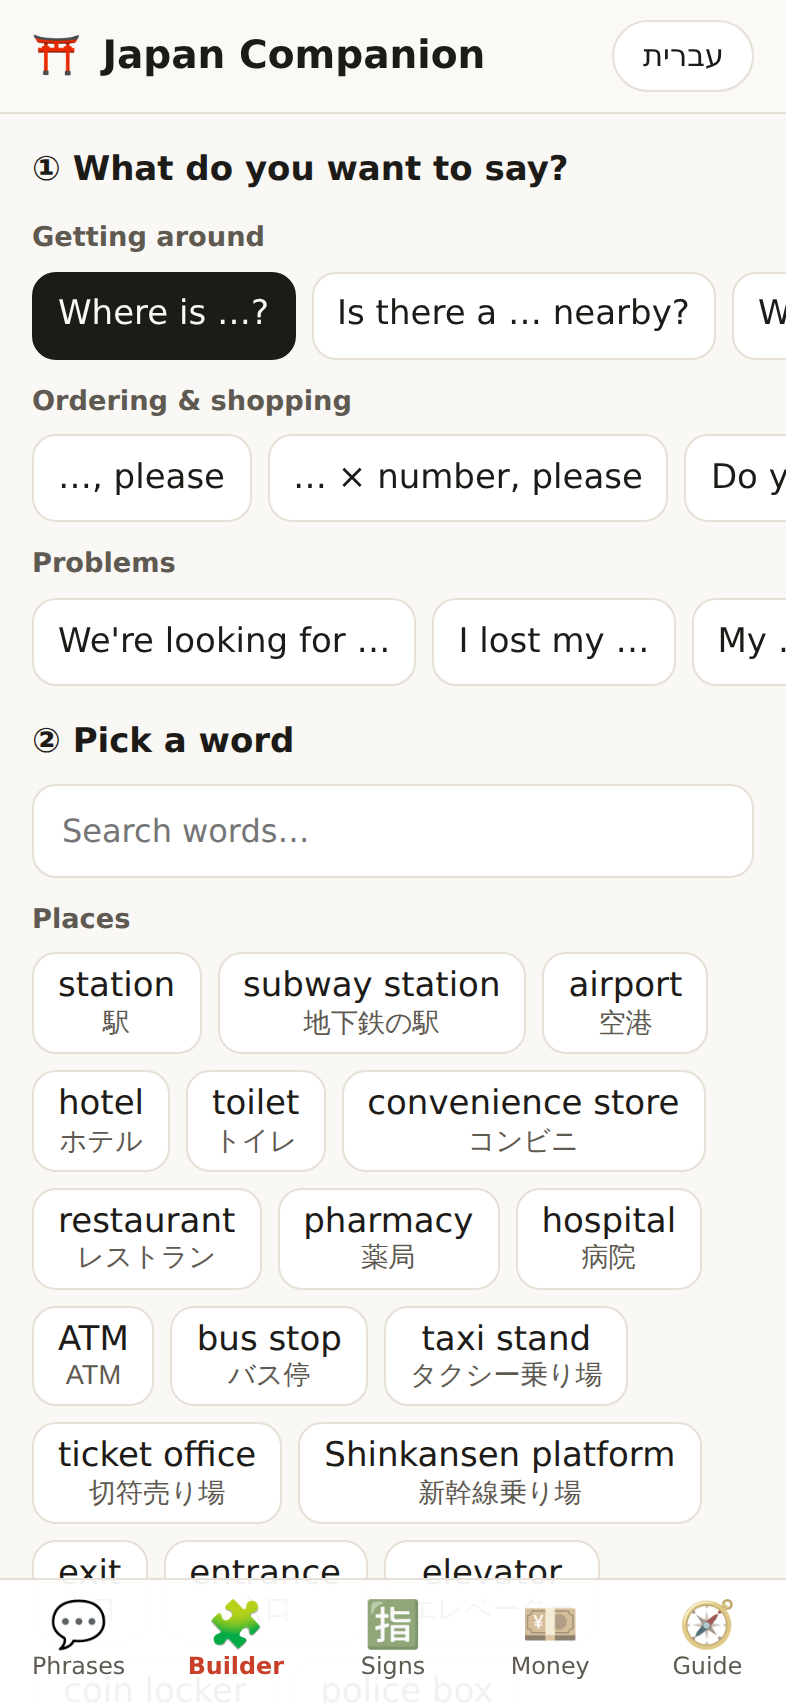
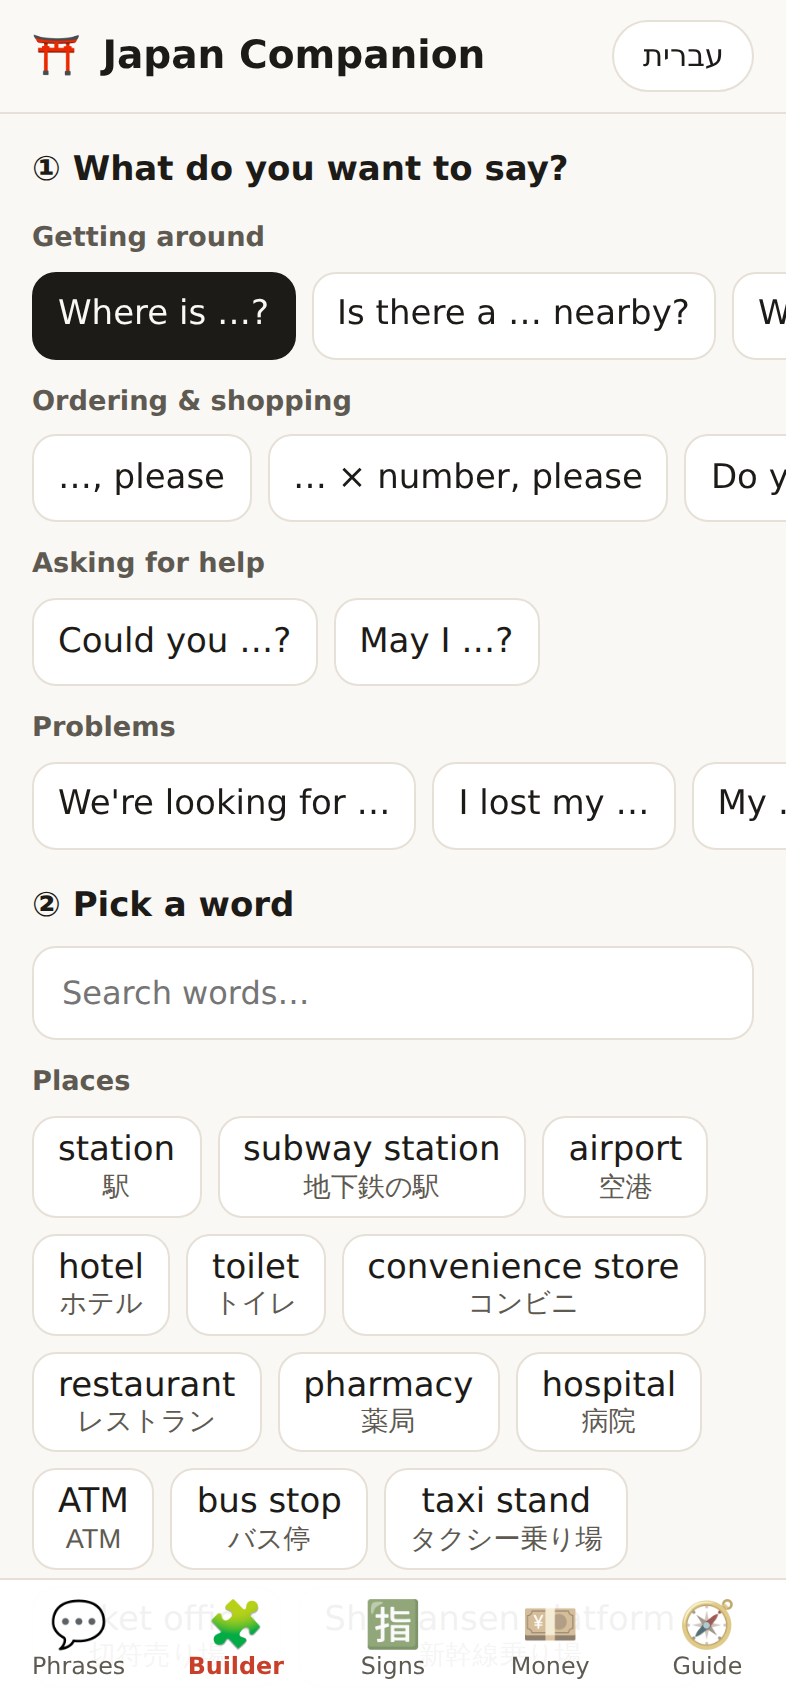
Phrase builder: requests, renting, pointing and broken things
Adds 13 frames and 69 words, driven by real travel needs: "How much is
that?", "Can I have …?", "Could you show me …?", "How much to rent …?",
"Is … included?", "When is the next …?", "Do you know …?", "… is broken",
"… doesn't work", plus two verb frames. Te-form verbs slot into
〜てもらえますか ("Could you heat it up / help us / fix it?") and
〜てもいいですか ("May I take a photo / pay by card?").

A narrower "works" type keeps nonsense like 現金が使えません out. Tests
pin the new sentences, and the smoke test drives "Could you heat it up?".

Claude-Session: https://claude.ai/code/session_018bchT5sCpiiUFh9kUhpGf5

diff --git a/japan-companion/app/src/content/patterns.ts b/japan-companion/app/src/content/patterns.ts
@@ -12,9 +12,17 @@ export type WordType =
   | 'body'
   | 'belonging'
   | 'usable'
+  | 'sight'
+  | 'fixture'
+  | 'rentable'
+  | 'amenity'
+  | 'vehicle'
+  | 'request'
+  | 'may-i'
+  | 'works'
   | 'custom'
 
-export type PatternGroup = 'around' | 'order' | 'problems'
+export type PatternGroup = 'around' | 'order' | 'requests' | 'problems'
 
 /**
  * A sentence frame. `{N}` is the noun; `{C}` the count (only with `count: true`).
@@ -100,6 +108,25 @@ export const PATTERNS: Pattern[] = [
   },
 
   {
+    id: 'next', group: 'around', accepts: ['vehicle'],
+    label: { he: 'מתי ה… הבא?', en: 'When is the next …?' },
+    ja: '次の{N}は何時ですか', kana: 'つぎの{N}はなんじですか', romaji: 'tsugi no {N} wa nanji desu ka', he_pron: 'צוגי נו {N} וה נאנג\'י דס קה',
+    he: 'מתי היציאה הבאה של {he_def}?', en: 'What time is the next {en}?',
+  },
+  {
+    id: 'leaves-from', group: 'around', accepts: ['vehicle'],
+    label: { he: 'מאיפה עולים על …?', en: 'Where does … leave from?' },
+    ja: '{N}はどこから出ますか', kana: '{N}はどこからでますか', romaji: '{N} wa doko kara demasu ka', he_pron: '{N} וה דוקו קארה דמאס קה',
+    he: 'מאיפה עולים על {he_def}?', en: 'Where does {the} leave from?',
+  },
+  {
+    id: 'know', group: 'around', accepts: ['place', 'sight', 'pointer-place', 'this', 'custom'],
+    label: { he: 'אתם מכירים את …?', en: 'Do you know …?' },
+    ja: '{N}を知っていますか', kana: '{N}をしっていますか', romaji: '{N} o shitte imasu ka', he_pron: '{N} או שיטה אימאס קה',
+    he: 'אתם מכירים את {he_def}?', en: 'Do you know {the}?',
+  },
+
+  {
     id: 'please', group: 'order', accepts: GOODS,
     label: { he: '…, בבקשה', en: '…, please' },
     ja: '{N}をお願いします', kana: '{N}をおねがいします', romaji: '{N} o onegaishimasu', he_pron: '{N} או אונגאי שימאס',
@@ -149,6 +176,56 @@ export const PATTERNS: Pattern[] = [
   },
 
   {
+    id: 'can-i-have', group: 'order', accepts: [...GOODS, 'amenity'],
+    label: { he: 'אפשר לקבל …?', en: 'Can I have …?' },
+    ja: '{N}をもらえますか', kana: '{N}をもらえますか', romaji: '{N} o moraemasu ka', he_pron: '{N} או מוראאמאס קה',
+    he: 'אפשר לקבל {he}?', en: 'Can I have {a}?',
+  },
+  {
+    id: 'show-me', group: 'order', accepts: ['thing', 'this'],
+    label: { he: 'אפשר לראות את …?', en: 'Can you show me …?' },
+    ja: '{N}を見せてもらえますか', kana: '{N}をみせてもらえますか', romaji: '{N} o misete moraemasu ka', he_pron: '{N} או מיסטה מוראאמאס קה',
+    he: 'תוכלו להראות לי את {he_def}?', en: 'Could you show me {the}?',
+  },
+  {
+    id: 'recommend', group: 'order', accepts: ['food', 'drink', 'sight'],
+    label: { he: 'המלצה על …?', en: 'Any … you recommend?' },
+    ja: 'おすすめの{N}はありますか', kana: 'おすすめの{N}はありますか', romaji: 'osusume no {N} wa arimasu ka', he_pron: 'אוסוסומה נו {N} וה ארימאס קה',
+    he: 'יש לכם המלצה על {he}?', en: 'Is there {a} you recommend?',
+  },
+  {
+    id: 'rent-price', group: 'order', accepts: ['rentable'],
+    label: { he: 'כמה עולה לשכור …?', en: 'How much to rent …?' },
+    ja: '{N}のレンタルはいくらですか', kana: '{N}のレンタルはいくらですか', romaji: '{N} no rentaru wa ikura desu ka', he_pron: '{N} נו רנטארו וה איקורה דס קה',
+    he: 'כמה עולה לשכור {he}?', en: 'How much is it to rent {a}?',
+  },
+  {
+    id: 'rent-where', group: 'order', accepts: ['rentable'],
+    label: { he: 'איפה אפשר לשכור …?', en: 'Where can I rent …?' },
+    ja: '{N}はどこで借りられますか', kana: '{N}はどこでかりられますか', romaji: '{N} wa doko de kariraremasu ka', he_pron: '{N} וה דוקו דה קארירארמאס קה',
+    he: 'איפה אפשר לשכור {he}?', en: 'Where can I rent {a}?',
+  },
+  {
+    id: 'included', group: 'order', accepts: ['amenity'],
+    label: { he: '… כלול?', en: 'Is … included?' },
+    ja: '{N}は付いていますか', kana: '{N}はついていますか', romaji: '{N} wa tsuite imasu ka', he_pron: '{N} וה צויטה אימאס קה',
+    he: 'זה כולל {he}?', en: 'Is {a} included?',
+  },
+
+  {
+    id: 'do-for-me', group: 'requests', accepts: ['request'],
+    label: { he: 'תוכלו …?', en: 'Could you …?' },
+    ja: '{N}もらえますか', kana: '{N}もらえますか', romaji: '{N} moraemasu ka', he_pron: '{N} מוראאמאס קה',
+    he: 'תוכלו {he}?', en: 'Could you {en}?',
+  },
+  {
+    id: 'may-i', group: 'requests', accepts: ['may-i'],
+    label: { he: 'אפשר …?', en: 'May I …?' },
+    ja: '{N}もいいですか', kana: '{N}もいいですか', romaji: '{N} mo ii desu ka', he_pron: '{N} מו אי דס קה',
+    he: 'אפשר {he}?', en: 'May I {en}?',
+  },
+
+  {
     id: 'looking-for', group: 'problems', accepts: ['place', 'thing', 'custom'],
     label: { he: 'אנחנו מחפשים …', en: "We're looking for …" },
     ja: '{N}を探しています', kana: '{N}をさがしています', romaji: '{N} o sagashite imasu', he_pron: '{N} או סאגאשיטה אימאס',
@@ -165,5 +242,17 @@ export const PATTERNS: Pattern[] = [
     label: { he: 'כואב לי …', en: 'My … hurts' },
     ja: '{N}が痛いです', kana: '{N}がいたいです', romaji: '{N} ga itai desu', he_pron: '{N} גה איטאי דס',
     he: 'כואב לי {he_def}', en: 'My {en} hurts',
+  },
+  {
+    id: 'broken', group: 'problems', accepts: ['fixture'],
+    label: { he: 'יש תקלה ב…', en: '… is broken' },
+    ja: '{N}が壊れています', kana: '{N}がこわれています', romaji: '{N} ga kowarete imasu', he_pron: '{N} גה קווארטה אימאס',
+    he: 'יש תקלה ב{he}', en: '{The} is broken',
+  },
+  {
+    id: 'not-working', group: 'problems', accepts: ['fixture', 'works'],
+    label: { he: 'לא מצליחים להשתמש ב…', en: "… doesn't work" },
+    ja: '{N}が使えません', kana: '{N}がつかえません', romaji: '{N} ga tsukaemasen', he_pron: '{N} גה צוקאאמאסן',
+    he: 'לא מצליחים להשתמש ב{he}', en: "{The} doesn't work",
   },
 ]

diff --git a/japan-companion/app/src/test/builder.test.ts b/japan-companion/app/src/test/builder.test.ts
@@ -5,7 +5,11 @@ import { en } from '../i18n/en'
 
 const KANA_ONLY = /^[぀-ゟ゠-ヿー]+$/
 const HEBREW = /[א-ת]/
-const TYPES: WordType[] = ['place', 'pointer-place', 'this', 'thing', 'food', 'drink', 'ingredient', 'body', 'belonging', 'usable', 'custom']
+const TYPES: WordType[] = [
+  'place', 'pointer-place', 'this', 'thing', 'food', 'drink', 'ingredient', 'body', 'belonging', 'usable',
+  'sight', 'fixture', 'rentable', 'amenity', 'vehicle', 'request', 'may-i', 'works', 'custom',
+]
+const HEADING_OF = (t: WordType) => (t === 'pointer-place' || t === 'this' ? 'type.pointer' : t === 'works' ? 'type.usable' : `type.${t}`)
 const byId = (id: string) => VOCAB.find((w) => w.id === id)!
 const frame = (id: string) => PATTERNS.find((p) => p.id === id)!
 
@@ -46,7 +50,7 @@ describe('frames', () => {
   it('have a heading for every word type they accept', () => {
     for (const p of PATTERNS)
       for (const t of p.accepts.filter((x) => x !== 'custom'))
-        expect(en, `${p.id}/${t}`).toHaveProperty(t === 'pointer-place' || t === 'this' ? 'type.pointer' : `type.${t}`)
+        expect(Object.keys(en), `${p.id}/${t}`).toContain(HEADING_OF(t))
   })
 })
 
@@ -72,6 +76,28 @@ describe('build', () => {
     expect(build(frame('hurts'), byId('head')).kana).toBe('あたまがいたいです')
     expect(build(frame('can-use'), byId('credit-card')).ja).toBe('ここでクレジットカードは使えますか')
     expect(build(frame('how-much'), byId('this')).ja).toBe('これはいくらですか')
+  })
+
+  it('covers asking people to do things, and asking permission', () => {
+    expect(build(frame('do-for-me'), byId('do-heat')).ja).toBe('温めてもらえますか')
+    expect(build(frame('do-for-me'), byId('do-heat')).en).toBe('Could you heat it up?')
+    expect(build(frame('do-for-me'), byId('do-fix')).romaji).toBe('naoshite moraemasu ka')
+    expect(build(frame('may-i'), byId('may-photo')).ja).toBe('写真を撮ってもいいですか')
+    expect(build(frame('may-i'), byId('may-card')).he).toBe('אפשר לשלם בכרטיס?')
+  })
+
+  it('covers renting, pointing, knowing and broken things', () => {
+    expect(build(frame('rent-price'), byId('bicycle')).ja).toBe('自転車のレンタルはいくらですか')
+    expect(build(frame('rent-price'), byId('bicycle')).en).toBe('How much is it to rent a bicycle?')
+    expect(build(frame('how-much'), byId('that')).ja).toBe('それはいくらですか')
+    expect(build(frame('how-much'), byId('that')).en).toBe('How much is that?')
+    expect(build(frame('can-i-have'), byId('this')).ja).toBe('これをもらえますか')
+    expect(build(frame('show-me'), byId('this')).ja).toBe('これを見せてもらえますか')
+    expect(build(frame('know'), byId('here')).ja).toBe('ここを知っていますか')
+    expect(build(frame('next'), byId('bus')).ja).toBe('次のバスは何時ですか')
+    expect(build(frame('broken'), byId('aircon')).ja).toBe('エアコンが壊れています')
+    expect(build(frame('not-working'), byId('suica')).en).toBe("My Suica doesn't work")
+    expect(build(frame('included'), byId('breakfast')).en).toBe('Is breakfast included?')
   })
 
   it('uses the right counter', () => {

diff --git a/japan-companion/app/src/features/builder/BuilderView.tsx b/japan-companion/app/src/features/builder/BuilderView.tsx
@@ -9,7 +9,7 @@ import { matches } from '../../lib/search'
 import { canSpeak, speakJapanese } from '../../lib/speech'
 import { load, save } from '../../lib/storage'
 
-const GROUPS: PatternGroup[] = ['around', 'order', 'problems']
+const GROUPS: PatternGroup[] = ['around', 'order', 'requests', 'problems']
 const HEADING: Record<Exclude<WordType, 'custom'>, Key> = {
   place: 'type.place',
   'pointer-place': 'type.pointer',
@@ -21,6 +21,14 @@ const HEADING: Record<Exclude<WordType, 'custom'>, Key> = {
   body: 'type.body',
   belonging: 'type.belonging',
   usable: 'type.usable',
+  works: 'type.usable',
+  sight: 'type.sight',
+  fixture: 'type.fixture',
+  rentable: 'type.rentable',
+  amenity: 'type.amenity',
+  vehicle: 'type.vehicle',
+  request: 'type.request',
+  'may-i': 'type.may-i',
 }
 
 interface Recent {

diff --git a/japan-companion/app/src/i18n/he.ts b/japan-companion/app/src/i18n/he.ts
@@ -21,6 +21,14 @@ export const he: Record<Key, string> = {
   'group.around': 'התמצאות ותחבורה',
   'group.order': 'הזמנות וקניות',
   'group.problems': 'בעיות',
+  'group.requests': 'בקשות',
+  'type.sight': 'מקומות לבקר',
+  'type.fixture': 'דברים שמתקלקלים',
+  'type.rentable': 'השכרה',
+  'type.amenity': 'מה כלול',
+  'type.vehicle': 'תחבורה',
+  'type.request': 'מה הם יכולים לעשות בשבילכם',
+  'type.may-i': 'מה אתם רוצים לעשות',
   'type.place': 'מקומות',
   'type.pointer': 'להצביע ולהראות',
   'type.thing': 'חפצים',

diff --git a/japan-companion/app/src/lib/builder.ts b/japan-companion/app/src/lib/builder.ts
@@ -92,11 +92,14 @@ export function build(pattern: Pattern, word: Word, count = 1): Built {
   const n = Math.min(Math.max(1, Math.round(count)), MAX_COUNT)
   const c = COUNTERS[word.counter ?? 'tsu'][n - 1]
   const bare = word.en_bare ?? word.en
+  const the = word.en_the ?? `the ${bare}`
+  const cap = (x: string) => x.charAt(0).toUpperCase() + x.slice(1)
   const en = {
     en: bare,
-    En: bare.charAt(0).toUpperCase() + bare.slice(1),
+    En: cap(bare),
     a: word.en_a ?? article(bare),
-    the: word.en_the ?? `the ${bare}`,
+    the,
+    The: cap(the),
     n: String(n),
   }
   return {

diff --git a/japan-companion/app/src/i18n/en.ts b/japan-companion/app/src/i18n/en.ts
@@ -20,6 +20,14 @@ export const en = {
   'group.around': 'Getting around',
   'group.order': 'Ordering & shopping',
   'group.problems': 'Problems',
+  'group.requests': 'Asking for help',
+  'type.sight': 'Places to visit',
+  'type.fixture': 'Things that break',
+  'type.rentable': 'Rentals',
+  'type.amenity': 'Included extras',
+  'type.vehicle': 'Transport',
+  'type.request': 'What they can do for you',
+  'type.may-i': 'What you want to do',
   'type.place': 'Places',
   'type.pointer': 'Point & show',
   'type.thing': 'Things',

diff --git a/japan-companion/docs/05-phrase-builder.md b/japan-companion/docs/05-phrase-builder.md
@@ -52,13 +52,39 @@ swap nouns ("… wa doko desu ka", "… o kudasai", "… wa arimasu ka",
 | | No …, please | {N}抜きでお願いします | ingredient |
 | | Is there … in this? | これに{N}は入っていますか | ingredient |
 | | Can I use … here? | ここで{N}は使えますか | usable |
-| Problems | We're looking for … | {N}を探しています | place, thing, belonging, custom |
+| | Where does … leave from? / When is the next …? | {N}はどこから出ますか / 次の{N}は何時ですか | vehicle |
+| | Do you know …? | {N}を知っていますか | place, sight, pointer, this, custom |
+| Ordering & shopping (v0.3) | Can I have …? | {N}をもらえますか | food, drink, thing, this, amenity |
+| | Could you show me …? | {N}を見せてもらえますか | thing, this |
+| | Any … you recommend? | おすすめの{N}はありますか | food, drink, sight |
+| | How much to rent …? / Where can I rent …? | {N}のレンタルはいくらですか / {N}はどこで借りられますか | rentable |
+| | Is … included? | {N}は付いていますか | amenity |
+| Requests (v0.3) | Could you …? | {V}もらえますか | request verbs (22) |
+| | May I …? | {V}もいいですか | may-i verbs (16) |
+| Problems | … is broken / … doesn't work | {N}が壊れています / {N}が使えません | fixture, works |
+| | We're looking for … | {N}を探しています | place, thing, belonging, custom |
 | | I lost my … | {N}をなくしました | belonging |
 | | My … hurts | {N}が痛いです | body |
 
 **Pointer words** make the builder work with maps and fingers: "here"
-(ここ) and "this address" (この住所) for places, and "this" (これ) for
-things.
+(ここ) and "this address" (この住所) for places; "this" (これ), "that"
+(それ, near the other person) and "that one over there" (あれ) for things.
+
+## Verb frames (v0.3)
+
+"Could you heat it up?", "Can you help me fix that?", "May I take a
+photo?" are about **actions**, not things. Japanese makes these regular
+too. Take the verb's **te-form** and add a fixed ending:
+
+| Ending | Meaning | Example |
+|--------|---------|---------|
+| 〜てもらえますか | Could you … (for me)? | 温めてもらえますか: could you heat it up? |
+| 〜てもいいですか | May I …? | 写真を撮ってもいいですか: may I take a photo? |
+
+So verbs are stored as ready te-form phrases ("温めて", "地図で教えて",
+"ペンを貸して") and slot into `{N}` like any word. The two lists are
+separate, because "may I heat it up?" and "could you sit here?" make no
+sense.
 
 ## Hebrew and English glosses
 
@@ -88,7 +114,7 @@ offers 1–5.
 
 ## Status
 
-Built in v0.2: 21 frames, 121 words, 1–5 counters, custom names, a
+Built in v0.2 and extended in v0.3: 34 frames, 190 words and verbs, 1–5 counters, custom names, a
 "Recent" list, and the sticky result card with 🔊 and 🪧. Tests build
 **every frame × every word it accepts** and check that each sentence is
 complete, in kana, and glossed in Hebrew. They also pin known sentences

diff --git a/japan-companion/README.md b/japan-companion/README.md
@@ -9,7 +9,7 @@ visitor well.
 2. **Money:** know what something costs in shekels and dollars, and handle a
    country that still runs on cash.
 
-> **Status:** v0.2, adding the **phrase builder**. It has phrases, show-cards, signs, a converter
+> **Status:** v0.3, where the **phrase builder** gains requests ("Could you …?", "May I …?"), renting, pointing and broken-things frames. It has phrases, show-cards, signs, a converter
 > and a guide, and it works offline. It isn't deployed yet (see open questions).
 
 ## Run it
@@ -29,7 +29,7 @@ npm run preview &  # then: npm run smoke  (iPhone-viewport browser test, writes 
 | Tab | What it does |
 |-----|--------------|
 | 💬 Phrases | 102 phrases in 9 categories: Japanese, Hebrew pronunciation, romaji, 🔊 audio, ★ favorites, search. 🪧 opens a **full-screen card** to show staff, with the screen kept on and a flip-toward-them button. **👂 "They say"**: 20 phrases staff say to *you* (konbini, restaurant, station), each with what to answer. |
-| 🧩 Builder | **Build your own sentence**: pick a frame ("Where is …?", "How much is …?", "No …, please", "My … hurts", "To …, please" for taxis… 21 in all), then a word (121: places, food, drinks, ingredients, body, belongings, payment) or type a name, e.g. pasted from Google Maps. You get correct Japanese with kana, romaji, Hebrew pronunciation, 🔊 and the show-card; there's a 1–5 counter for orders and a Recent list. See [the design](docs/05-phrase-builder.md). |
+| 🧩 Builder | **Build your own sentence**: pick a frame ("Where is …?", "How much is that?", "Can I have …?", "Could you heat it up / show me / help us / fix it?", "May I take a photo?", "How much to rent …?", "… is broken"… 34 in all), then a word or action (190: places, food, drinks, ingredients, rentals, room fixtures, transport, body, belongings, payment, 38 verbs) or type a name, e.g. pasted from Google Maps. You get correct Japanese with kana, romaji, Hebrew pronunciation, 🔊 and the show-card; there's a 1–5 counter for orders and a Recent list. See [the design](docs/05-phrase-builder.md). |
 | 🈯 Signs | 83 kanji from signs and menus (exits, push/pull, open/closed, tax-free, pork/beef, onsen curtains…), by place, searchable |
 | 💴 Money | ¥ ↔ ₪ ↔ $ keypad converter, live rate cached for offline, optional card-fee % and a manual rate, a quick-reference table, and a tax-free check (≥ ¥5,000 before tax) |
 | 🧭 Guide | Tap-to-call emergency numbers and the Israeli embassy, a pre-flight checklist, cash & ATMs, tax-free rules, trains & Suica, etiquette, earthquakes |

diff --git a/japan-companion/.claude/skills/japanese-phrase-content/SKILL.md b/japan-companion/.claude/skills/japanese-phrase-content/SKILL.md
@@ -110,6 +110,15 @@ to prevent **nonsense**, and that's what types do.
   (ל/ב/מ/ה/ו/כ/ש + "התחנה"). Use free-standing words ("עד", "אל",
   "את", "המחיר של") or the indefinite `{he}` ("ב{he}" → "בכרטיס אשראי").
   `builder.test.ts` enforces this.
+- **Verbs** go in `vocab.json` as ready **te-form** phrases (温めて,
+  ペンを貸して, 写真を撮って) typed `request` ("Could you …?" →
+  〜もらえますか) or `may-i` ("May I …?" → 〜もいいですか). Check the
+  te-form carefully: う/つ/る → って, む/ぶ/ぬ → んで, く → いて, ぐ → いで,
+  す → して, and 行く → 行って. `he` is a Hebrew infinitive ("לחמם את
+  זה") because the frames are "תוכלו …?" and "אפשר …?".
+- Watch for frames where one type contains a word that turns the sentence
+  into nonsense (現金が使えません). Split off a narrower type (`works`)
+  rather than accepting a broad one.
 - `builder.test.ts` builds every frame × word and checks there are no
   leftover `{…}`, the kana is kana only, and there's Hebrew in the gloss.
   Add a pinned example for any new frame.
